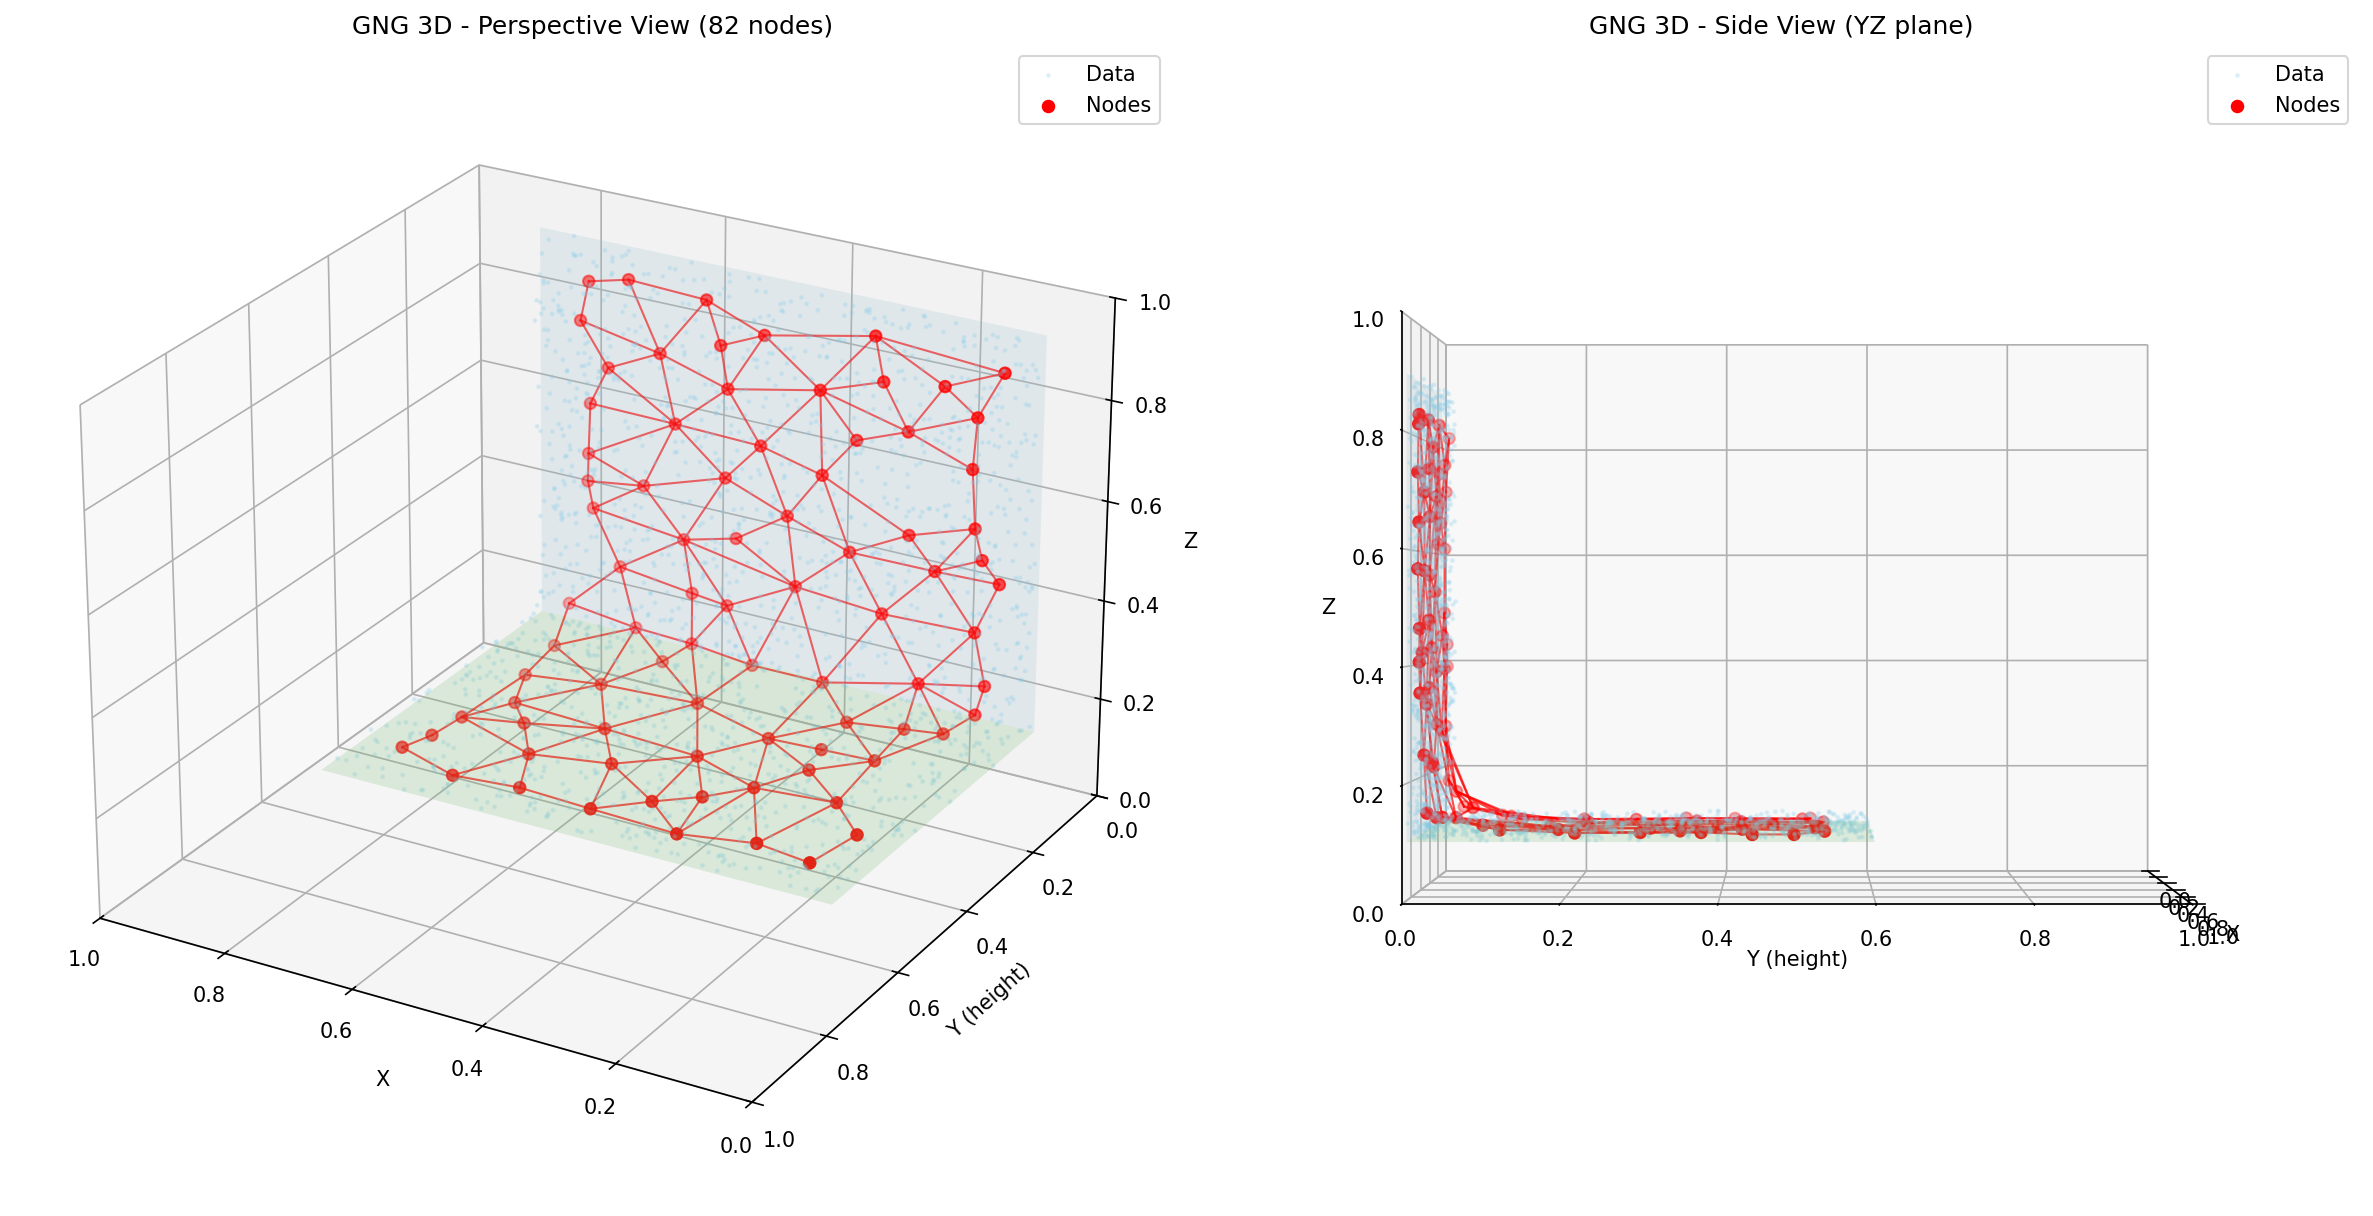
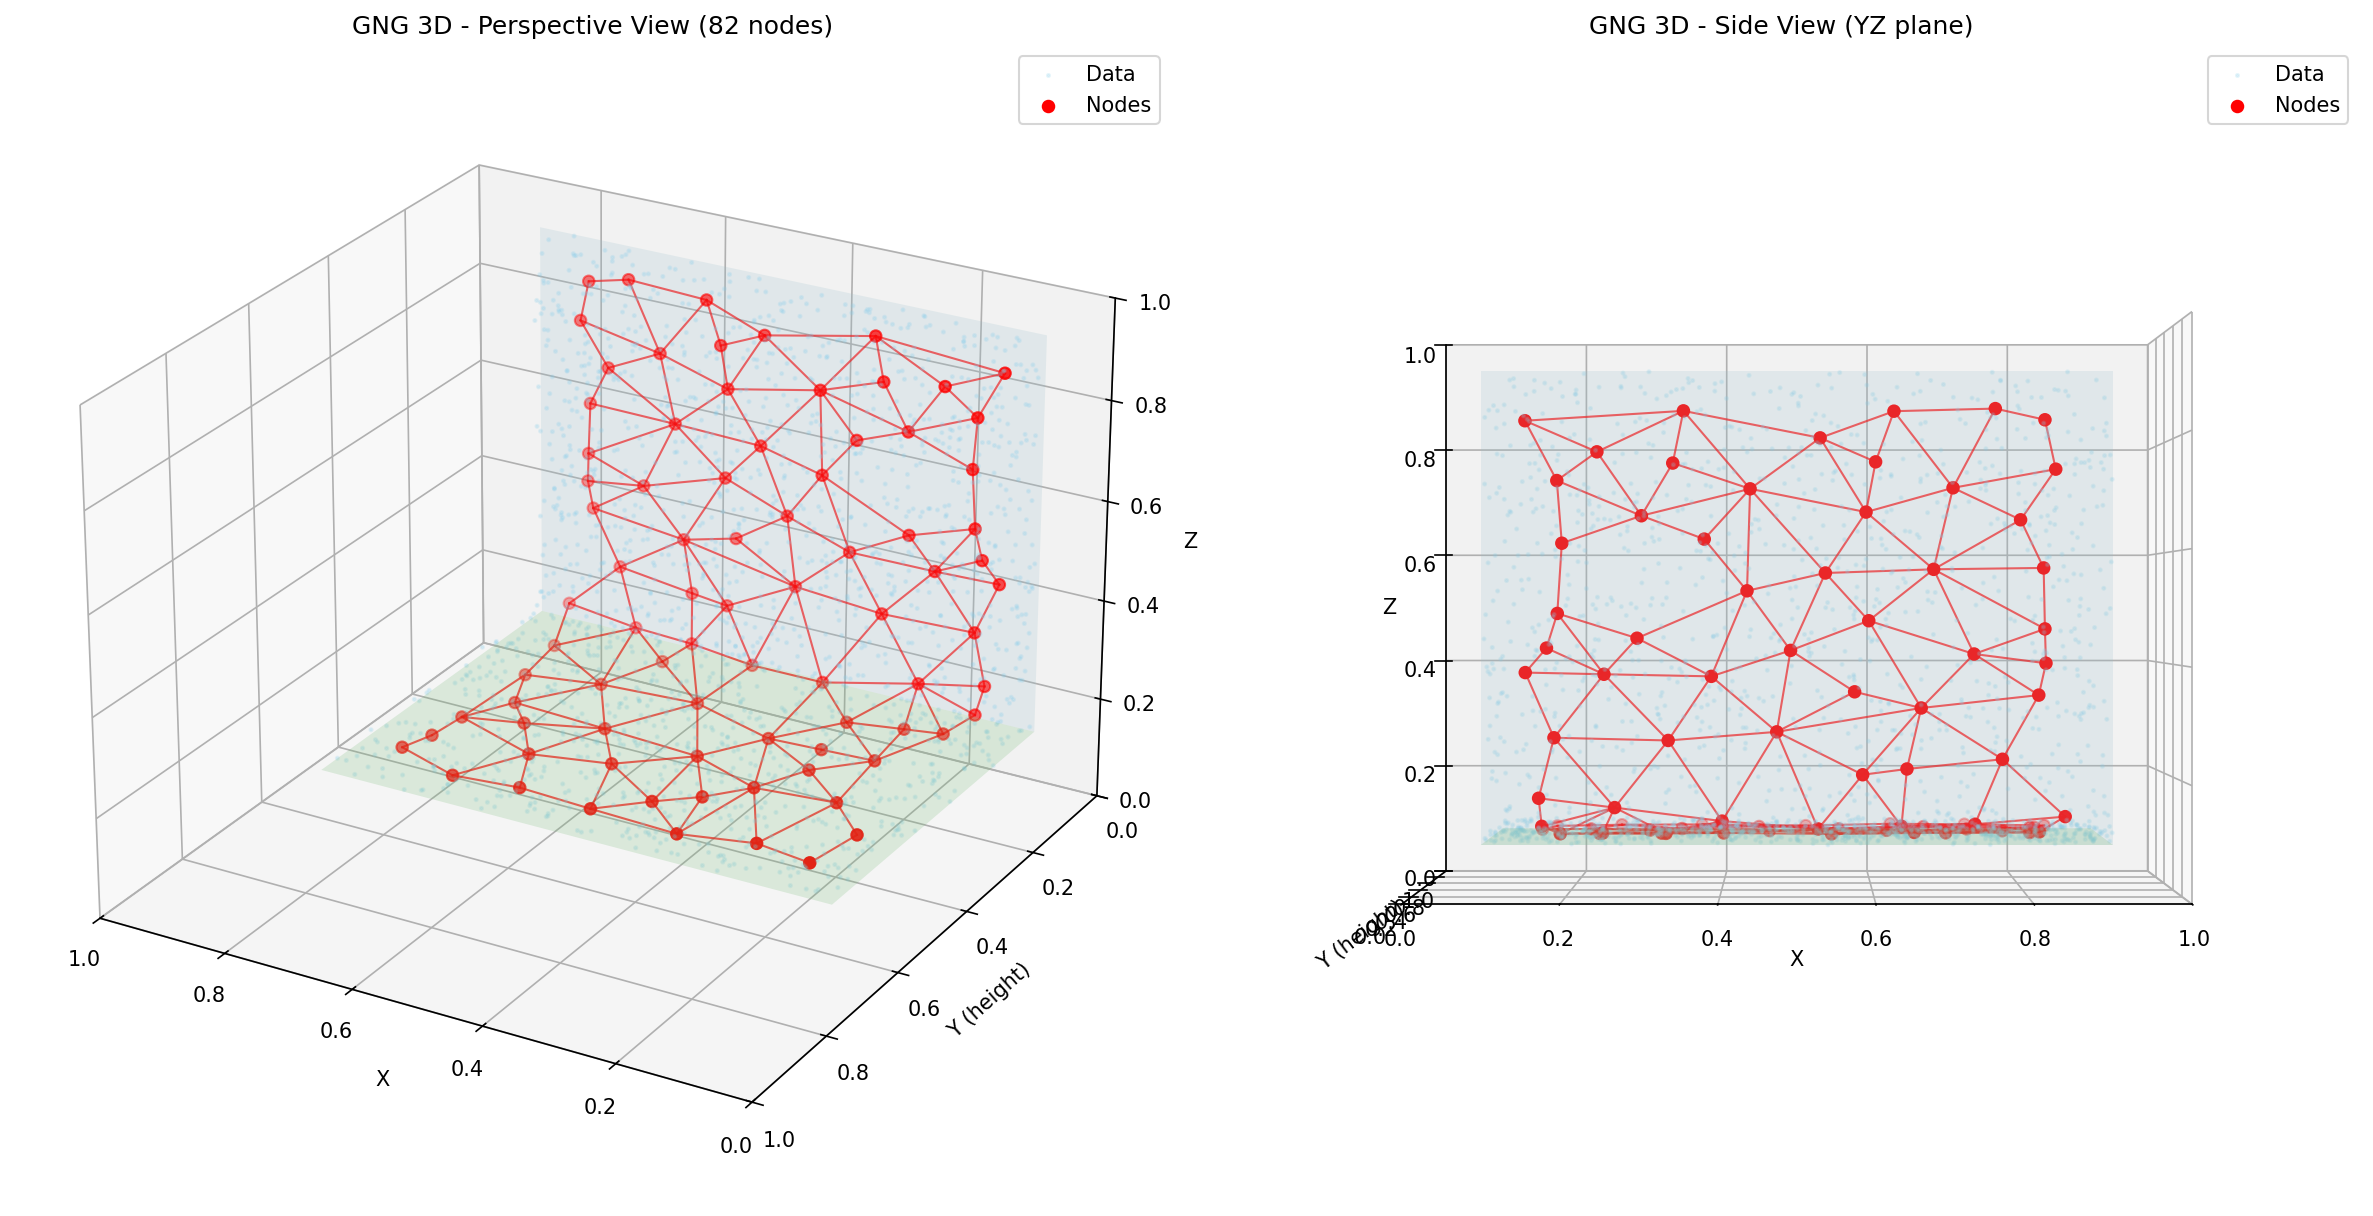
Fix YZ side view to look from back (azim=-90)
- Change side view azimuth from 0 to -90 for proper YZ plane view
- Now looking along negative X axis (from back side)

Changed region(s): [[0.5613, 0.2812, 0.9355, 0.7812], [0.7484, 0.7812, 0.7796, 0.8125]]

diff --git a/experiments/3d_pointcloud/test_gng_floor_wall.py b/experiments/3d_pointcloud/test_gng_floor_wall.py
@@ -185,8 +185,8 @@ def run_experiment(
     create_frame(axes[0], points, nodes, edges, n_iterations, elev=25, azim=azim_start)
     axes[0].set_title(f"GNG 3D - Perspective View ({len(nodes)} nodes)")
 
-    # Right: Side view from YZ plane (looking along X axis)
-    create_frame(axes[1], points, nodes, edges, n_iterations, elev=0, azim=0)
+    # Right: Side view from YZ plane (looking along negative X axis, from back)
+    create_frame(axes[1], points, nodes, edges, n_iterations, elev=0, azim=-90)
     axes[1].set_title(f"GNG 3D - Side View (YZ plane)")
 
     plt.tight_layout()
